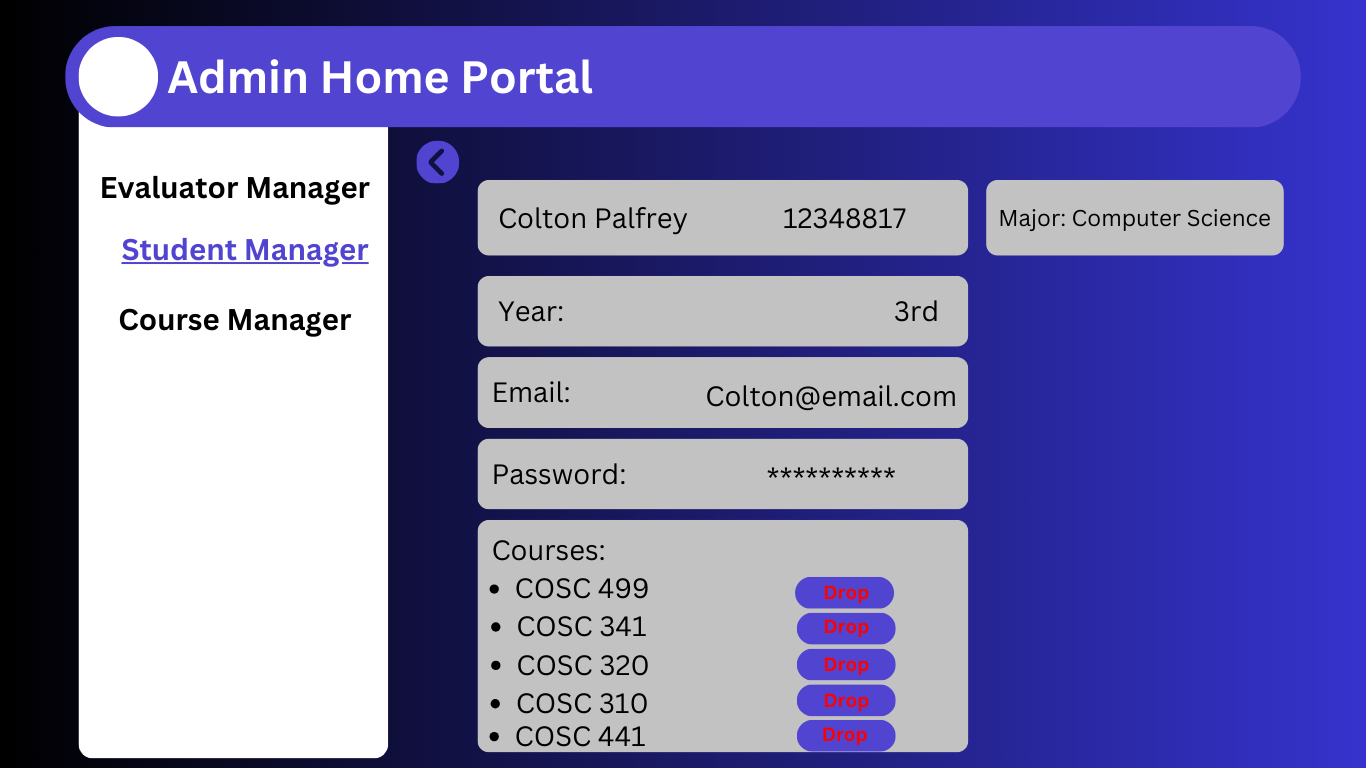
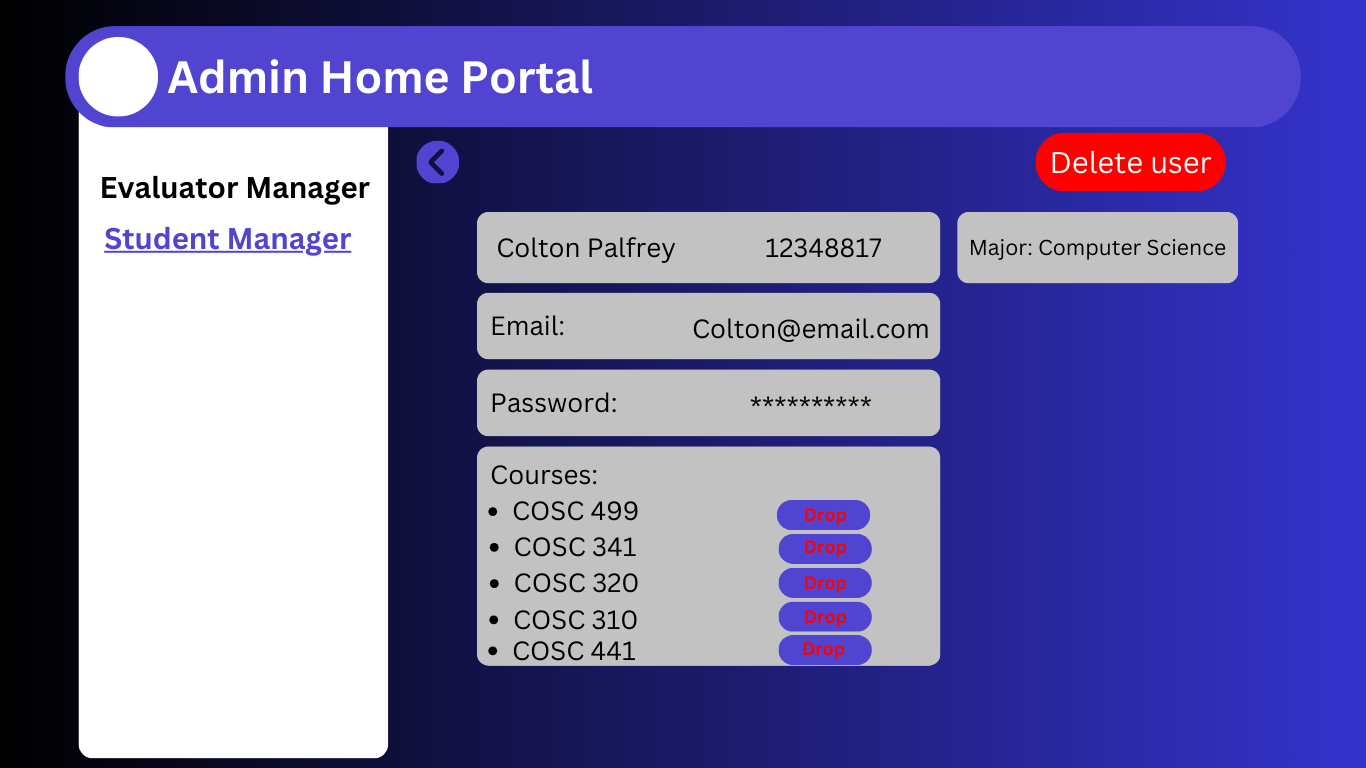
Added the last bit of UI to the design plan.

Changed region(s): [[0.3382, 0.1562, 0.9531, 1.0], [0.0615, 0.2812, 0.2767, 0.3438], [0.0922, 0.4062, 0.2767, 0.4375]]

diff --git a/design-plan.md b/design-plan.md
@@ -121,28 +121,51 @@ Upon login students will be shown their dashboard/homepage. Here they can select
 ![student drop down menu](/docs/ui-design/7.png)
 ![Evaluator drop down menu](/docs/ui-design/8.png)
 ![Account](/docs/ui-design/9.png)
-![Create Course](/docs/ui-design/10.png)
+Students can visit the help page for instructions of how to use the website.
 ![Get help](/docs/ui-design/11.png)
+After clicking on a course the student can view their grades for the course in the grades tab.
 ![Grade: student view](/docs/ui-design/12.png)
+When clicking on the assignments tab students can view all complete assignments. Each assignment can be clicked on to view more information such as assignment descriptions or grade/AI and professor feedback.
 ![Assignments: student view](/docs/ui-design/13.png)
 ![Single assignment feedback: student view](/docs/ui-design/14.png)
 ![Single assignment submission: student view](/docs/ui-design/15.png)
+Student can click on the people tab to see a list of all other students enrolled in the class.
 ![People: student view](/docs/ui-design/16.png)
+Student can click on the Submissions tab and see all of their submissions for this course.
 ![Submissions: student view](/docs/ui-design/17.png)
-![Submitted assignment: prof view](/docs/ui-design/18.png)
-![All specific subissions: prof view](/docs/ui-design/19.png)
-![All submissions: prof view](/docs/ui-design/20.png)
-![Assignment Unpublished: prof view](/docs/ui-design/21.png)
-![Assignment published: studetn view](/docs/ui-design/22.png)
-![Assignment submissions and publish grades: prof view](/docs/ui-design/23.png)
-![Create assignment: prof view](/docs/ui-design/24.png)
-![Student grades: prof view](/docs/ui-design/25.png)
-![Selected rubricc: prof view](/docs/ui-design/26.png)
-![All past rubrics: prof view](/docs/ui-design/27.png)
-![Student manager, all students view: Admin view](/docs/ui-design/28.png)
-![Student manager, single students view: Admin view](/docs/ui-design/29.png)
-![Evaluator manager: all evaluators: Admin view](/docs/ui-design/30.png)
-![Evaluator manager: Single evaluator: Admin view](/docs/ui-design/31.png)
 
+### Evaluator Interface.
 The login page for T.A. and professor look different then the login page for the students because they cannot create an account themselves. Instead the Admin must create an account for them. Note: The admin page login will also look the same as this.
 ![Evaluator/admin login](/docs/ui-design/login.png)
+The professor dashboard looks very similar to a student dashboard but gives them the ability to create a course.
+![Create Course](/docs/ui-design/10.png)
+Professors can visit the help page for instructions of how to use the website.
+![Get help](/docs/ui-design/11.png)
+Upon clicking on the assignments the evaluator can see specific assignments. They can click on these to view all of the students submissions. Or to view or edit assignment criteria. From here they can also browse assignments of create a new assignment.
+![All submissions: prof view](/docs/ui-design/20.png)
+![All specific submissions: prof view](/docs/ui-design/19.png)
+The professor can create an assignment by creating a new rubric or reusing a past one.
+![Create assignment: prof view](/docs/ui-design/24.png)
+Professor or T.A. can click to view a students submission of an assignment and can view the AI feedback. The evaluator must confirm the students score before it is considered marked. The Evaluator may also edit the due date for this specific student. Finally the evaluator can write their own comments on the assignment submission and mark the evaluation as complete.
+![Submitted assignment: prof view](/docs/ui-design/18.png)
+Professors can see whether or not an assignment is published or not and edit everything on an assignment such as due date, name, and description/rubric. they can also publish or unpublish an assignment.
+![Assignment Unpublished: prof view](/docs/ui-design/21.png)
+![Assignment published: student view](/docs/ui-design/22.png)
+Once all assignments submissions are marked for a specific assignment, the professor can publish the grades to the students or hide the grades from the students.
+![Assignment submissions and publish grades: prof view](/docs/ui-design/23.png)
+Professor can view the averages of student grades from assignments so they know how their students are doing in the course.
+![Student grades: prof view](/docs/ui-design/25.png)
+Professor can review all past rubrics from this any course as they are all saved.
+![Selected rubricc: prof view](/docs/ui-design/26.png)
+![All past rubrics: prof view](/docs/ui-design/27.png)
+
+### Admin Interface
+The admin can view or search the list of students that have an account at AIvaluate. These users can be selected to allow the admin to view more information
+![Student manager, all students view: Admin view](/docs/ui-design/28.png)
+A selected student profile contains their course information and the Admin can drop them from a course. The admin can also delete a user.
+![Student manager, single students view: Admin view](/docs/ui-design/29.png)
+The admin can view or search the list of T.A.'s and Instructors that have an account at AIvaluate. These users can be selected to allow the admin to view more information. Admin can user sign a evaluator up for an account.
+![Evaluator manager: all evaluators: Admin view](/docs/ui-design/30.png)
+A selected evaluator profile contains their course access information and the Admin can remove the professor from a course. The admin can also delete an evaluator or select whether or not they are a teaching assistant.
+![Evaluator signup: Admin view](/docs/ui-design/32.png)
+![Evaluator manager: Single evaluator: Admin view](/docs/ui-design/31.png)
